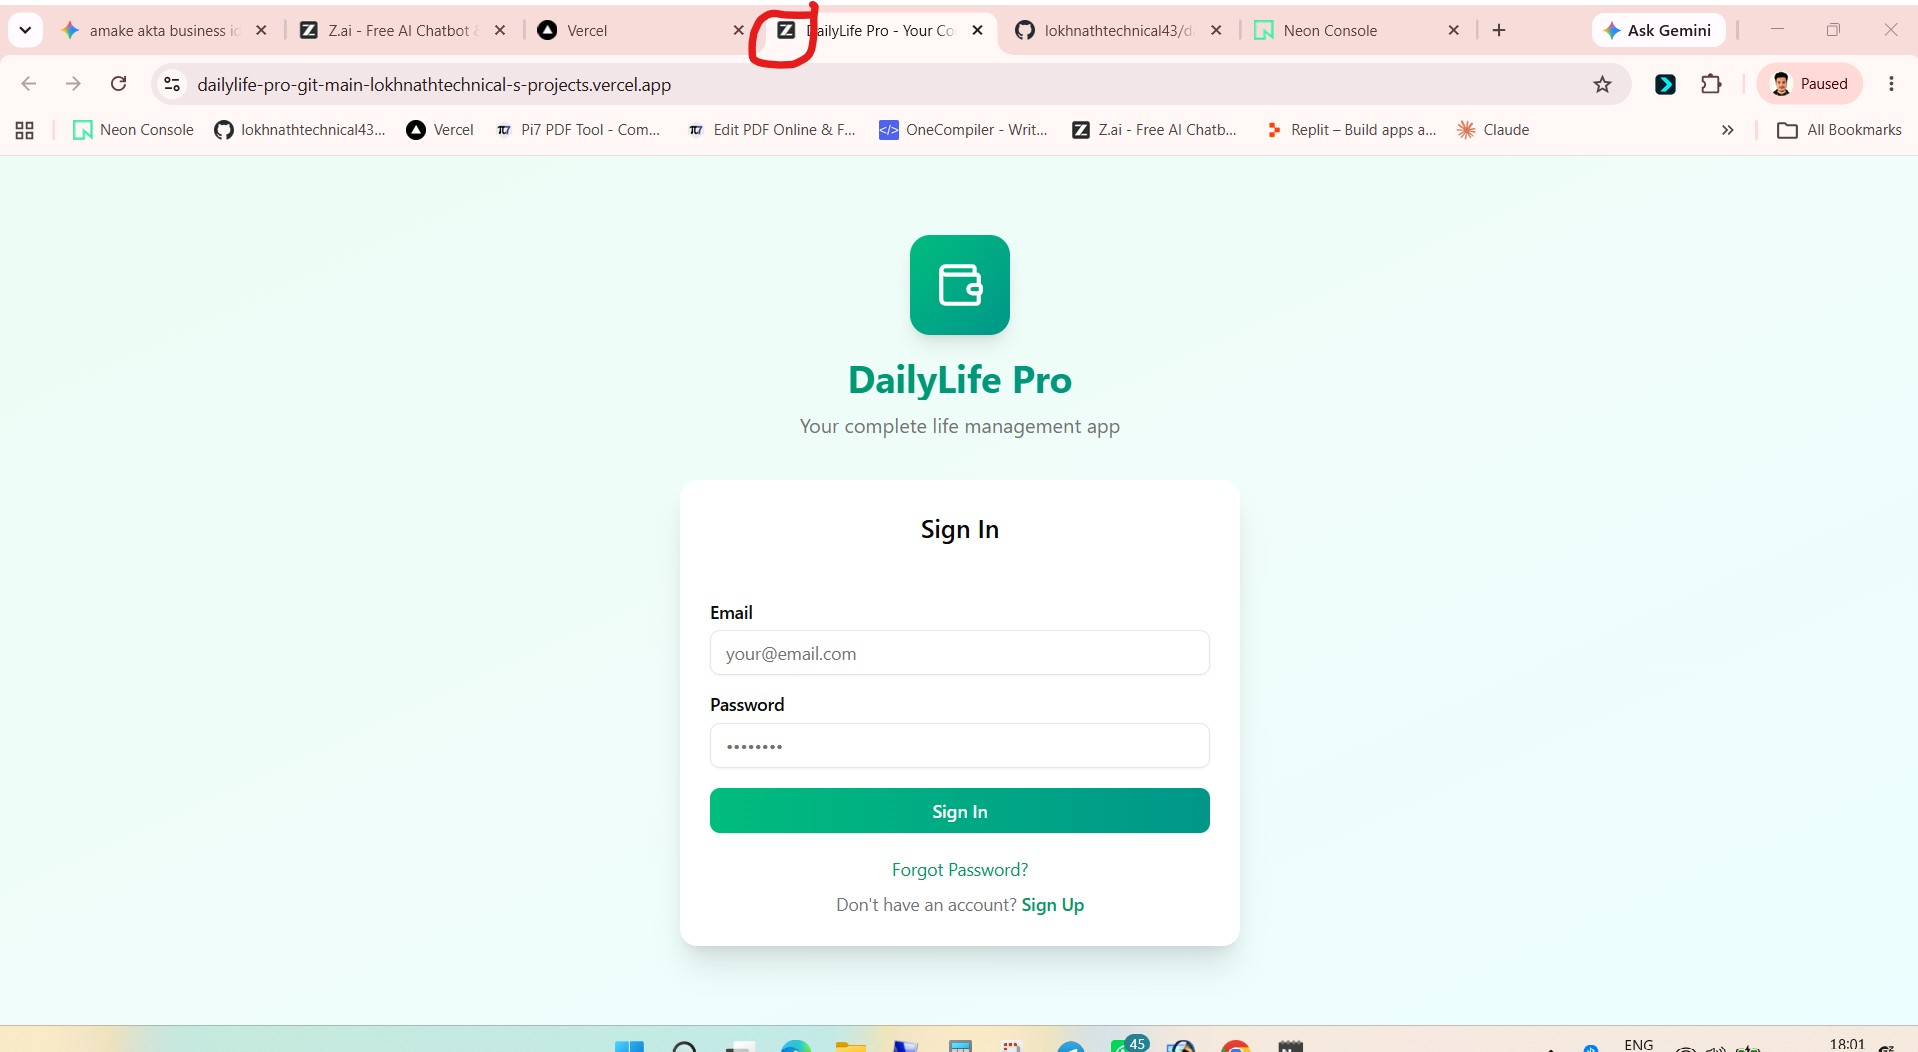
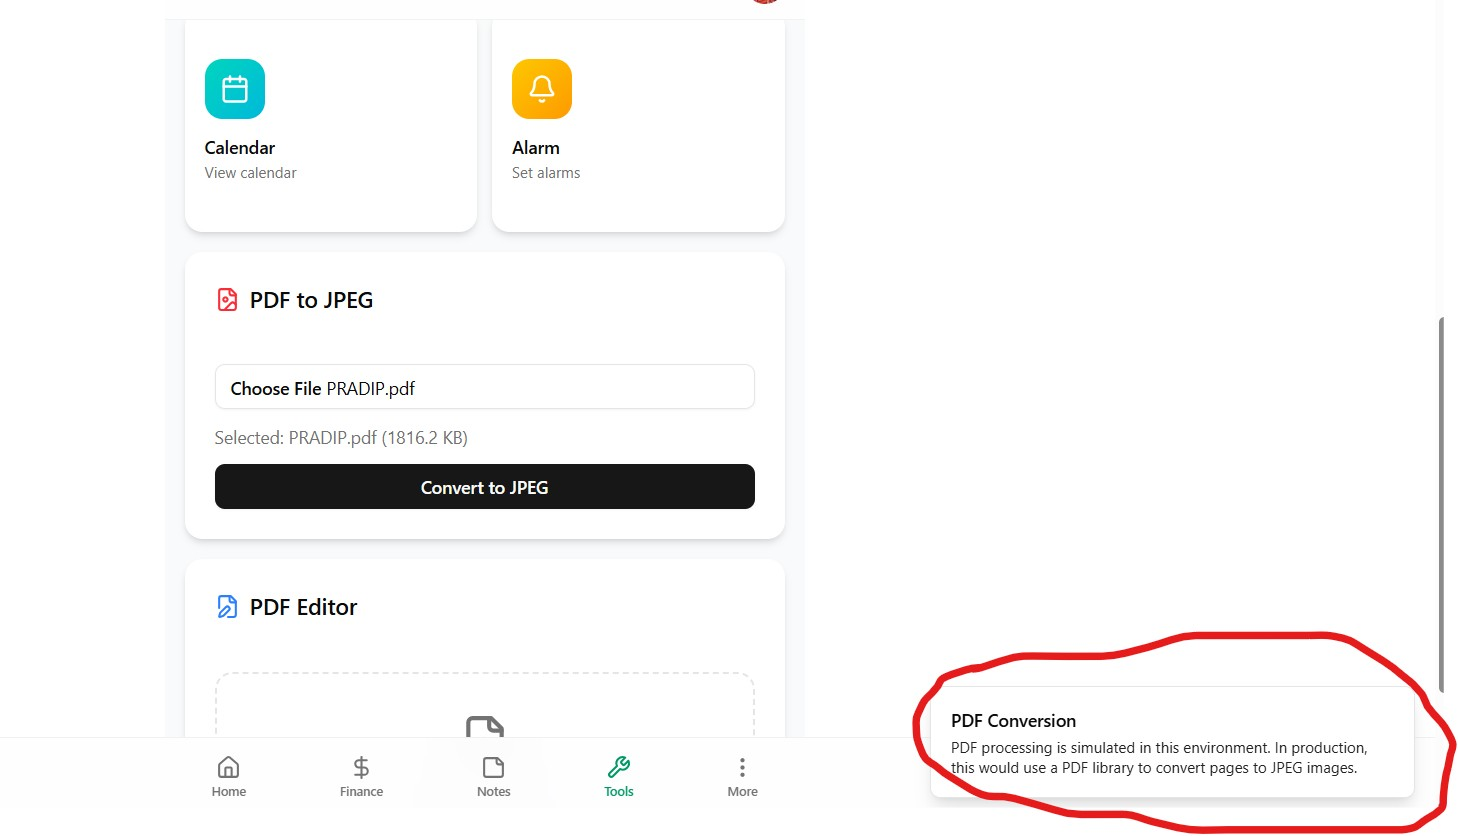
feat: real PDF to JPEG converter and PDF Editor with text annotations

diff --git a/src/app/page.tsx b/src/app/page.tsx
@@ -2025,6 +2025,15 @@ function ToolsPage() {
   const { setPage } = useAppStore()
   const [pdfFile, setPdfFile] = useState<File | null>(null)
   const [converting, setConverting] = useState(false)
+  const [convertedImages, setConvertedImages] = useState<string[]>([])
+  const [editPdfFile, setEditPdfFile] = useState<File | null>(null)
+  const [editPdfImages, setEditPdfImages] = useState<string[]>([])
+  const [editCurrentPage, setEditCurrentPage] = useState(0)
+  const [editAnnotations, setEditAnnotations] = useState<Array<{ page: number; x: number; y: number; text: string; color: string }>>([])
+  const [editTextInput, setEditTextInput] = useState('')
+  const [editTextColor, setEditTextColor] = useState('#ff0000')
+  const [showTextInput, setShowTextInput] = useState(false)
+  const [textPosition, setTextPosition] = useState({ x: 0, y: 0 })
 
   const tools = [
     { icon: <FileImage className="w-6 h-6" />, label: 'PDF to JPEG', desc: 'Convert PDF pages to images', color: 'from-red-400 to-orange-400' },
@@ -2037,9 +2046,156 @@ function ToolsPage() {
     { icon: <Bell className="w-6 h-6" />, label: 'Alarm', desc: 'Set alarms', color: 'from-yellow-400 to-amber-500', page: 'alarm' as Page },
   ]
 
-  const handlePdfConvert = () => {
+  // PDF to JPEG - Real conversion using canvas
+  const handlePdfConvert = async () => {
     if (!pdfFile) return
-    toast({ title: 'PDF Conversion', description: 'PDF processing is simulated in this environment. In production, this would use a PDF library to convert pages to JPEG images.' })
+    setConverting(true)
+    setConvertedImages([])
+    try {
+      const arrayBuffer = await pdfFile.arrayBuffer()
+      const pdfjsLib = await import('pdfjs-dist')
+      pdfjsLib.GlobalWorkerOptions.workerSrc = `https://cdnjs.cloudflare.com/ajax/libs/pdf.js/${pdfjsLib.version}/pdf.worker.min.mjs`
+      
+      const pdf = await pdfjsLib.getDocument({ data: arrayBuffer }).promise
+      const images: string[] = []
+      
+      for (let i = 1; i <= pdf.numPages; i++) {
+        const page = await pdf.getPage(i)
+        const scale = 2
+        const viewport = page.getViewport({ scale })
+        
+        const canvas = document.createElement('canvas')
+        canvas.width = viewport.width
+        canvas.height = viewport.height
+        const ctx = canvas.getContext('2d')!
+        
+        await page.render({ canvasContext: ctx, viewport, canvas } as any).promise
+        images.push(canvas.toDataURL('image/jpeg', 0.9))
+      }
+      
+      setConvertedImages(images)
+      toast({ title: 'Conversion Complete!', description: `${images.length} page(s) converted to JPEG.` })
+    } catch (err) {
+      console.error('PDF conversion error:', err)
+      toast({ title: 'Conversion Failed', description: 'Could not convert PDF. Please try a different file.', variant: 'destructive' })
+    }
+    setConverting(false)
+  }
+
+  const downloadImage = (dataUrl: string, index: number) => {
+    const link = document.createElement('a')
+    link.href = dataUrl
+    link.download = `${pdfFile?.name?.replace('.pdf', '') || 'page'}_${index + 1}.jpg`
+    link.click()
+  }
+
+  const downloadAllImages = () => {
+    convertedImages.forEach((img, i) => {
+      setTimeout(() => downloadImage(img, i), i * 300)
+    })
+  }
+
+  // PDF Editor - Load and annotate
+  const handleEditPdf = async () => {
+    if (!editPdfFile) return
+    try {
+      const arrayBuffer = await editPdfFile.arrayBuffer()
+      const pdfjsLib = await import('pdfjs-dist')
+      pdfjsLib.GlobalWorkerOptions.workerSrc = `https://cdnjs.cloudflare.com/ajax/libs/pdf.js/${pdfjsLib.version}/pdf.worker.min.mjs`
+      
+      const pdf = await pdfjsLib.getDocument({ data: arrayBuffer }).promise
+      const images: string[] = []
+      
+      for (let i = 1; i <= pdf.numPages; i++) {
+        const page = await pdf.getPage(i)
+        const scale = 2
+        const viewport = page.getViewport({ scale })
+        
+        const canvas = document.createElement('canvas')
+        canvas.width = viewport.width
+        canvas.height = viewport.height
+        const ctx = canvas.getContext('2d')!
+        
+        await page.render({ canvasContext: ctx, viewport, canvas } as any).promise
+        images.push(canvas.toDataURL('image/jpeg', 0.9))
+      }
+      
+      setEditPdfImages(images)
+      setEditCurrentPage(0)
+      setEditAnnotations([])
+      toast({ title: 'PDF Loaded', description: `${images.length} page(s) loaded for editing.` })
+    } catch (err) {
+      console.error('PDF editor error:', err)
+      toast({ title: 'Load Failed', description: 'Could not load PDF for editing.', variant: 'destructive' })
+    }
+  }
+
+  const handleCanvasClick = (e: React.MouseEvent<HTMLDivElement>) => {
+    const rect = e.currentTarget.getBoundingClientRect()
+    const x = e.clientX - rect.left
+    const y = e.clientY - rect.top
+    setTextPosition({ x, y })
+    setShowTextInput(true)
+    setEditTextInput('')
+  }
+
+  const addTextAnnotation = () => {
+    if (!editTextInput.trim()) return
+    setEditAnnotations([...editAnnotations, {
+      page: editCurrentPage,
+      x: textPosition.x,
+      y: textPosition.y,
+      text: editTextInput,
+      color: editTextColor
+    }])
+    setShowTextInput(false)
+    setEditTextInput('')
+  }
+
+  const deleteAnnotation = (index: number) => {
+    setEditAnnotations(editAnnotations.filter((_, i) => i !== index))
+  }
+
+  const saveEditedPdf = async () => {
+    try {
+      const pdfjsLib = await import('pdfjs-dist')
+      pdfjsLib.GlobalWorkerOptions.workerSrc = `https://cdnjs.cloudflare.com/ajax/libs/pdf.js/${pdfjsLib.version}/pdf.worker.min.mjs`
+
+      // Render each page with annotations to canvas, then create downloadable images
+      for (let p = 0; p < editPdfImages.length; p++) {
+        const img = new Image()
+        img.src = editPdfImages[p]
+        await new Promise(resolve => { img.onload = resolve })
+        
+        const canvas = document.createElement('canvas')
+        canvas.width = img.width
+        canvas.height = img.height
+        const ctx = canvas.getContext('2d')!
+        ctx.drawImage(img, 0, 0)
+        
+        // Draw annotations for this page
+        const pageAnnotations = editAnnotations.filter(a => a.page === p)
+        const scaleX = img.width / (img.naturalWidth || img.width)
+        const scaleY = img.height / (img.naturalHeight || img.height)
+        
+        pageAnnotations.forEach(ann => {
+          ctx.font = `bold ${Math.round(20 * scaleX)}px Arial`
+          ctx.fillStyle = ann.color
+          ctx.fillText(ann.text, ann.x * scaleX, ann.y * scaleY)
+        })
+        
+        // Download
+        const link = document.createElement('a')
+        link.href = canvas.toDataURL('image/jpeg', 0.95)
+        link.download = `edited_page_${p + 1}.jpg`
+        link.click()
+      }
+      
+      toast({ title: 'Saved!', description: 'Edited pages downloaded.' })
+    } catch (err) {
+      console.error('Save error:', err)
+      toast({ title: 'Save Failed', description: 'Could not save edited PDF.', variant: 'destructive' })
+    }
   }
 
   return (
@@ -2067,11 +2223,43 @@ function ToolsPage() {
           <CardTitle className="text-lg flex items-center gap-2"><FileImage className="w-5 h-5 text-red-500" /> PDF to JPEG</CardTitle>
         </CardHeader>
         <CardContent className="space-y-3">
-          <Input type="file" accept=".pdf" onChange={e => setPdfFile(e.target.files?.[0] || null)} />
-          {pdfFile && <p className="text-sm text-muted-foreground">Selected: {pdfFile.name} ({(pdfFile.size / 1024).toFixed(1)} KB)</p>}
-          <Button onClick={handlePdfConvert} disabled={!pdfFile || converting} className="w-full">
-            {converting ? 'Converting...' : 'Convert to JPEG'}
+          <div className="border-2 border-dashed rounded-xl p-4 text-center">
+            <Input type="file" accept=".pdf" onChange={e => { setPdfFile(e.target.files?.[0] || null); setConvertedImages([]) }} />
+            {pdfFile && (
+              <div className="mt-3 p-2 bg-gray-50 dark:bg-gray-700 rounded-lg flex items-center justify-between">
+                <div className="text-left">
+                  <p className="text-sm font-medium">{pdfFile.name}</p>
+                  <p className="text-xs text-muted-foreground">{(pdfFile.size / 1024).toFixed(1)} KB</p>
+                </div>
+                <Button size="sm" onClick={() => { setPdfFile(null); setConvertedImages([]) }} variant="ghost"><X className="w-4 h-4" /></Button>
+              </div>
+            )}
+          </div>
+          <Button onClick={handlePdfConvert} disabled={!pdfFile || converting} className="w-full bg-red-500 hover:bg-red-600">
+            {converting ? <><RefreshCw className="w-4 h-4 mr-2 animate-spin" /> Converting...</> : <><FileImage className="w-4 h-4 mr-2" /> Convert to JPEG</>}
           </Button>
+          
+          {convertedImages.length > 0 && (
+            <div className="space-y-3">
+              <div className="flex items-center justify-between">
+                <p className="text-sm font-medium">Converted Pages ({convertedImages.length})</p>
+                <Button size="sm" variant="outline" onClick={downloadAllImages}><Download className="w-4 h-4 mr-1" /> Download All</Button>
+              </div>
+              <div className="grid grid-cols-2 gap-2">
+                {convertedImages.map((img, i) => (
+                  <div key={i} className="relative group">
+                    <img src={img} alt={`Page ${i + 1}`} className="w-full rounded-lg border shadow-sm" />
+                    <div className="absolute inset-0 bg-black/40 opacity-0 group-hover:opacity-100 transition-opacity rounded-lg flex items-center justify-center">
+                      <Button size="sm" variant="secondary" onClick={() => downloadImage(img, i)}>
+                        <Download className="w-4 h-4" />
+                      </Button>
+                    </div>
+                    <span className="absolute top-1 left-1 bg-black/60 text-white text-xs px-2 py-0.5 rounded">Page {i + 1}</span>
+                  </div>
+                ))}
+              </div>
+            </div>
+          )}
         </CardContent>
       </Card>
 
@@ -2080,14 +2268,89 @@ function ToolsPage() {
         <CardHeader className="pb-2">
           <CardTitle className="text-lg flex items-center gap-2"><FileEdit className="w-5 h-5 text-blue-500" /> PDF Editor</CardTitle>
         </CardHeader>
-        <CardContent>
-          <div className="border-2 border-dashed rounded-xl p-8 text-center">
-            <FileType className="w-10 h-10 text-muted-foreground mx-auto mb-2" />
-            <p className="text-sm text-muted-foreground">Upload a PDF to edit</p>
-            <Input type="file" accept=".pdf" className="mt-3" onChange={() => {
-              toast({ title: 'PDF Editor', description: 'PDF editing would open an in-browser editor. Available in production with PDF.js integration.' })
-            }} />
+        <CardContent className="space-y-3">
+          <div className="border-2 border-dashed rounded-xl p-4 text-center">
+            <Input type="file" accept=".pdf" onChange={e => { setEditPdfFile(e.target.files?.[0] || null); setEditPdfImages([]) }} />
+            {editPdfFile && (
+              <div className="mt-3 p-2 bg-gray-50 dark:bg-gray-700 rounded-lg flex items-center justify-between">
+                <div className="text-left">
+                  <p className="text-sm font-medium">{editPdfFile.name}</p>
+                  <p className="text-xs text-muted-foreground">{(editPdfFile.size / 1024).toFixed(1)} KB</p>
+                </div>
+                <Button size="sm" onClick={handleEditPdf} className="bg-blue-500 hover:bg-blue-600">Load PDF</Button>
+              </div>
+            )}
           </div>
+
+          {editPdfImages.length > 0 && (
+            <div className="space-y-3">
+              {/* Page Navigation */}
+              <div className="flex items-center justify-between">
+                <Button size="sm" variant="outline" disabled={editCurrentPage === 0} onClick={() => setEditCurrentPage(editCurrentPage - 1)}>
+                  <ChevronLeft className="w-4 h-4" />
+                </Button>
+                <span className="text-sm font-medium">Page {editCurrentPage + 1} of {editPdfImages.length}</span>
+                <Button size="sm" variant="outline" disabled={editCurrentPage === editPdfImages.length - 1} onClick={() => setEditCurrentPage(editCurrentPage + 1)}>
+                  <ChevronRight className="w-4 h-4" />
+                </Button>
+              </div>
+
+              {/* Color Picker */}
+              <div className="flex items-center gap-2">
+                <Label className="text-xs">Text Color:</Label>
+                {['#ff0000', '#0000ff', '#000000', '#008000', '#ff6600'].map(c => (
+                  <button
+                    key={c}
+                    className={`w-7 h-7 rounded-full border-2 ${editTextColor === c ? 'border-gray-800 scale-110' : 'border-gray-300'} transition-all`}
+                    style={{ backgroundColor: c }}
+                    onClick={() => setEditTextColor(c)}
+                  />
+                ))}
+              </div>
+
+              {/* PDF Canvas with Click-to-Add-Text */}
+              <div className="relative border rounded-lg overflow-hidden" onClick={handleCanvasClick}>
+                <img src={editPdfImages[editCurrentPage]} alt={`Page ${editCurrentPage + 1}`} className="w-full" />
+                {/* Render existing annotations */}
+                {editAnnotations.filter(a => a.page === editCurrentPage).map((ann, i) => (
+                  <div
+                    key={i}
+                    className="absolute group cursor-pointer"
+                    style={{ left: ann.x, top: ann.y, color: ann.color }}
+                  >
+                    <span className="text-sm font-bold drop-shadow-md">{ann.text}</span>
+                    <button
+                      onClick={(e) => { e.stopPropagation(); deleteAnnotation(editAnnotations.indexOf(ann)) }}
+                      className="absolute -top-2 -right-2 w-4 h-4 bg-red-500 text-white rounded-full text-xs opacity-0 group-hover:opacity-100 transition-opacity flex items-center justify-center"
+                    >×</button>
+                  </div>
+                ))}
+              </div>
+
+              {/* Text Input Popup */}
+              {showTextInput && (
+                <div className="flex gap-2 items-center p-3 bg-gray-50 dark:bg-gray-700 rounded-lg">
+                  <Input
+                    value={editTextInput}
+                    onChange={e => setEditTextInput(e.target.value)}
+                    placeholder="Type text to add..."
+                    className="flex-1"
+                    autoFocus
+                    onKeyDown={e => e.key === 'Enter' && addTextAnnotation()}
+                  />
+                  <Button size="sm" onClick={addTextAnnotation} className="bg-blue-500 hover:bg-blue-600">Add</Button>
+                  <Button size="sm" variant="ghost" onClick={() => setShowTextInput(false)}>Cancel</Button>
+                </div>
+              )}
+
+              <p className="text-xs text-muted-foreground text-center">Tap on the page to add text. Hover over text to delete.</p>
+
+              {/* Save Button */}
+              <Button onClick={saveEditedPdf} className="w-full bg-blue-500 hover:bg-blue-600" disabled={editPdfImages.length === 0}>
+                <Download className="w-4 h-4 mr-2" /> Save Edited Pages
+              </Button>
+            </div>
+          )}
         </CardContent>
       </Card>
     </div>

diff --git a/src/app/api/pdf-tools/route.ts b/src/app/api/pdf-tools/route.ts
@@ -1,0 +1,29 @@
+import { NextRequest, NextResponse } from 'next/server'
+
+// POST - PDF tools endpoint
+export async function POST(req: NextRequest) {
+  try {
+    const formData = await req.formData()
+    const file = formData.get('file') as File | null
+    const action = formData.get('action') as string
+
+    if (!file) {
+      return NextResponse.json({ error: 'No file provided' }, { status: 400 })
+    }
+
+    if (action === 'pdf-to-jpeg' || action === 'pdf-info') {
+      const buffer = Buffer.from(await file.arrayBuffer())
+      const base64 = buffer.toString('base64')
+      return NextResponse.json({
+        pdfBase64: base64,
+        fileName: file.name,
+        size: file.size
+      })
+    }
+
+    return NextResponse.json({ error: 'Invalid action' }, { status: 400 })
+  } catch (error) {
+    console.error('PDF tools error:', error)
+    return NextResponse.json({ error: 'Internal server error' }, { status: 500 })
+  }
+}